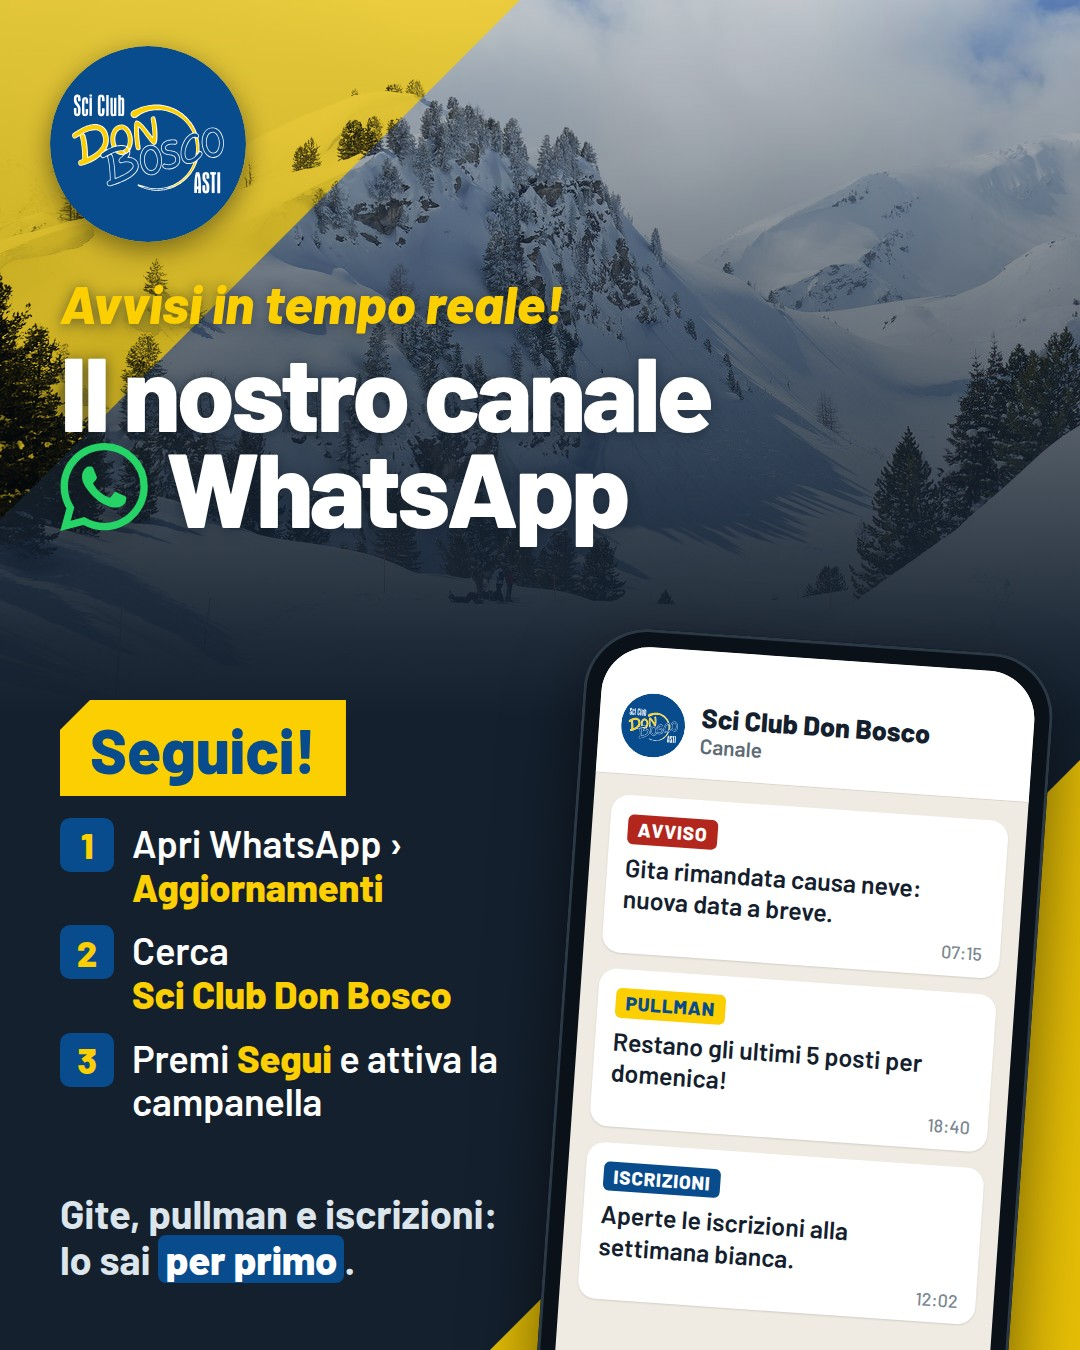
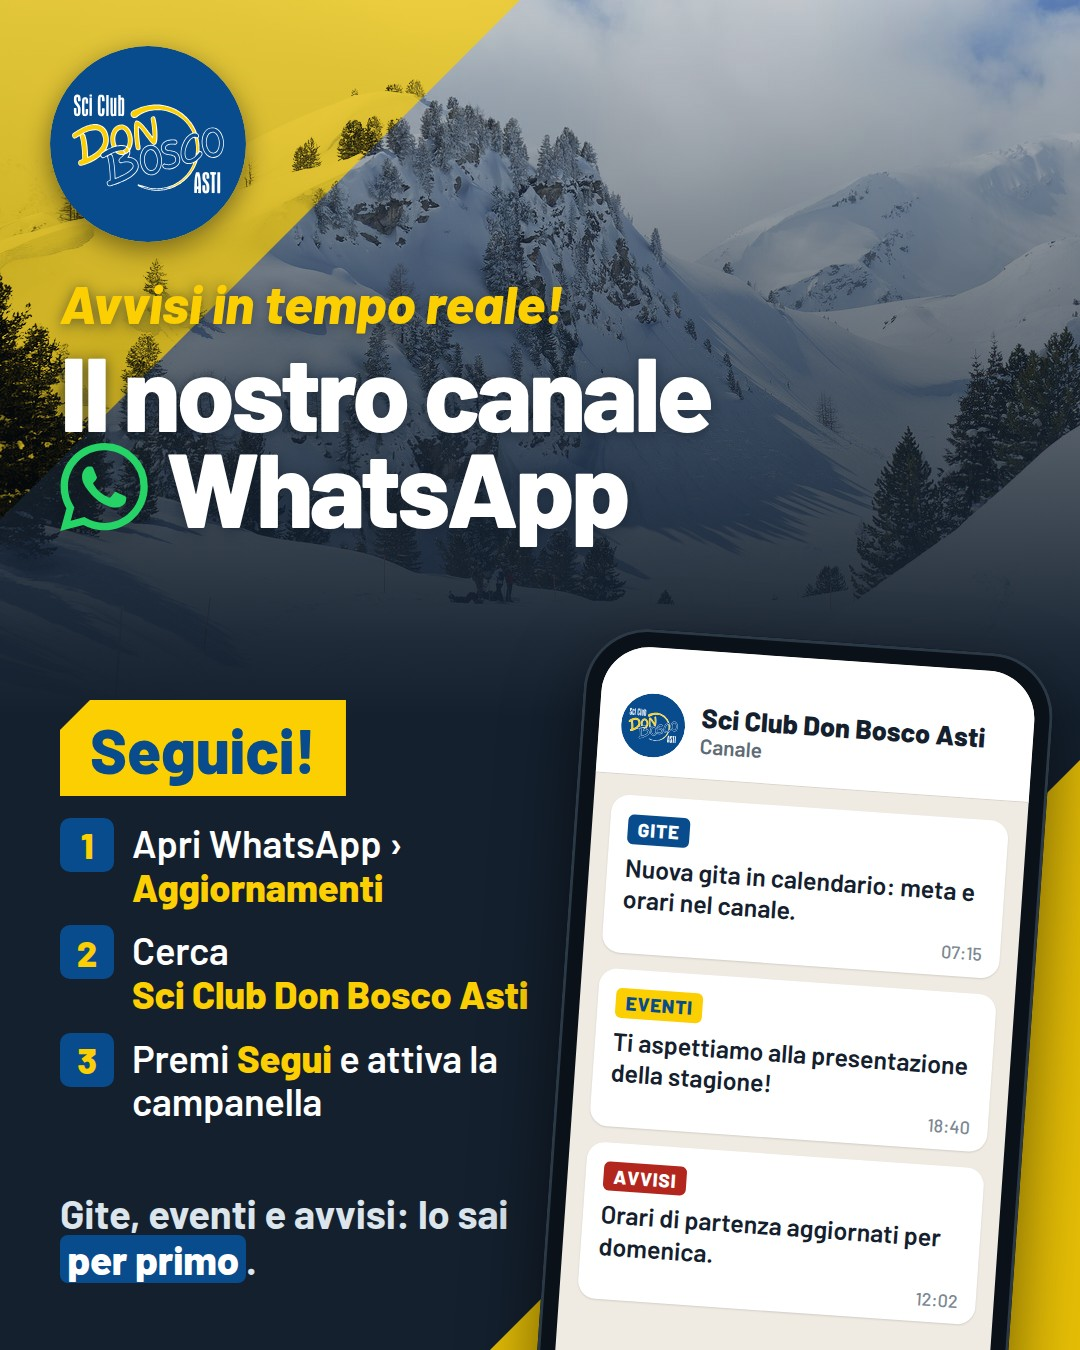
fix(grafica): canale WhatsApp col nome giusto, Sci Club Don Bosco Asti

diff --git a/grafica/canale-whatsapp/sorgenti/post.html b/grafica/canale-whatsapp/sorgenti/post.html
@@ -73,17 +73,17 @@
     <div class="seg">Seguici!</div>
     <ol>
       <li><i>1</i><span>Apri WhatsApp › <b>Aggiornamenti</b></span></li>
-      <li><i>2</i><span>Cerca <b>Sci Club Don Bosco</b></span></li>
+      <li><i>2</i><span>Cerca <b>Sci Club Don Bosco Asti</b></span></li>
       <li><i>3</i><span>Premi <b>Segui</b> e attiva la campanella</span></li>
     </ol>
   </div>
-  <p class="perche">Gite, pullman e iscrizioni: lo sai <b>per primo</b>.</p>
+  <p class="perche">Gite, eventi e avvisi: lo sai <b>per primo</b>.</p>
   <div class="tel"><div class="schermo">
-    <div class="testa"><img src="../../logo/logo-ufficiale-blu-tondo.svg" alt=""><div><b>Sci Club Don Bosco</b><span>Canale</span></div></div>
+    <div class="testa"><img src="../../logo/logo-ufficiale-blu-tondo.svg" alt=""><div><b>Sci Club Don Bosco Asti</b><span>Canale</span></div></div>
     <div class="msgs">
-      <div class="msg"><em class="rosso">Avviso</em><br>Gita rimandata causa neve: nuova data a breve.<span class="ora">07:15</span></div>
-      <div class="msg"><em class="giallo">Pullman</em><br>Restano gli ultimi 5 posti per domenica!<span class="ora">18:40</span></div>
-      <div class="msg"><em class="blu">Iscrizioni</em><br>Aperte le iscrizioni alla settimana bianca.<span class="ora">12:02</span></div>
+      <div class="msg"><em class="blu">Gite</em><br>Nuova gita in calendario: meta e orari nel canale.<span class="ora">07:15</span></div>
+      <div class="msg"><em class="giallo">Eventi</em><br>Ti aspettiamo alla presentazione della stagione!<span class="ora">18:40</span></div>
+      <div class="msg"><em class="rosso">Avvisi</em><br>Orari di partenza aggiornati per domenica.<span class="ora">12:02</span></div>
     </div>
   </div></div>
 </div>

diff --git a/grafica/canale-whatsapp/video-story/index.html b/grafica/canale-whatsapp/video-story/index.html
@@ -68,7 +68,7 @@
       <div class="pad"></div>
       <div class="freccia"><div class="freccia-mossa" id="freccia"><div class="corpo">TOCCA QUI</div><div class="punta"></div></div></div>
       <p class="passo" id="passo">Poi premi <b>«Segui»</b> e <b>attiva le notifiche</b><svg id="campanella" viewBox="0 0 24 24" aria-hidden="true"><path d="M12 22a2.5 2.5 0 0 0 2.45-2h-4.9A2.5 2.5 0 0 0 12 22zm7-6V11a7 7 0 0 0-5.5-6.84V3.5a1.5 1.5 0 0 0-3 0v.66A7 7 0 0 0 5 11v5l-2 2v1h18v-1l-2-2z"/></svg></p>
-      <p class="oppure" id="oppure">Oppure: WhatsApp › Aggiornamenti › «Sci Club Don Bosco»</p>
+      <p class="oppure" id="oppure">Oppure: WhatsApp › Aggiornamenti › «Sci Club Don Bosco Asti»</p>
     </div>
     <script>
       const tl = gsap.timeline({ paused: true });

diff --git a/grafica/canale-whatsapp/sorgenti/story.html b/grafica/canale-whatsapp/sorgenti/story.html
@@ -60,6 +60,6 @@
   <div class="freccia"><div class="corpo">TOCCA QUI</div><div class="punta"></div></div>
   <div class="pad"></div>
   <p class="passo">Poi premi <b>«Segui»</b> e <b>attiva le notifiche</b><svg viewBox="0 0 24 24" aria-hidden="true"><path d="M12 22a2.5 2.5 0 0 0 2.45-2h-4.9A2.5 2.5 0 0 0 12 22zm7-6V11a7 7 0 0 0-5.5-6.84V3.5a1.5 1.5 0 0 0-3 0v.66A7 7 0 0 0 5 11v5l-2 2v1h18v-1l-2-2z"/></svg></p>
-  <p class="oppure">Oppure: WhatsApp › Aggiornamenti › «Sci Club Don Bosco»</p>
+  <p class="oppure">Oppure: WhatsApp › Aggiornamenti › «Sci Club Don Bosco Asti»</p>
 </div>
 </body></html>

diff --git a/grafica/canale-whatsapp/README.md b/grafica/canale-whatsapp/README.md
@@ -68,8 +68,7 @@ e `rendi.sh`, che rifà con Chrome PDF e anteprime del cartello e il JPEG della 
 
 `post-canale-whatsapp.jpg` (1080×1350, va bene nel feed di entrambi), nello stile K dei post:
 angolo giallo col logo, «Avvisi in tempo reale!», «Il nostro canale WhatsApp» col logo di
-WhatsApp, un telefono con tre avvisi di esempio (gita rimandata, ultimi posti sul pullman,
-iscrizioni alla settimana bianca) e a sinistra i tre passi per seguirlo, senza link (in
+WhatsApp, un telefono con tre avvisi di esempio (gite, eventi, avvisi) e a sinistra i tre passi per seguirlo, senza link (in
 un'immagine non si tocca: va nel testo del post). Sorgente `sorgenti/post.html`, lo rifà
 `sorgenti/rendi.sh`. Foto: la stessa della story (DimiTalen, Wikimedia Commons, CC0); logo
 WhatsApp da Simple Icons.

diff --git a/grafica/canale-whatsapp/video-story/BRIEF.md b/grafica/canale-whatsapp/video-story/BRIEF.md
@@ -2,7 +2,7 @@
 workflow: general-video
 flow: automation
 storyboard: no
-message: "Segui il canale WhatsApp dello Sci Club Don Bosco"
+message: "Segui il canale WhatsApp dello Sci Club Don Bosco Asti"
 destination: instagram-story
 aspect: 1080x1920
 language: it
